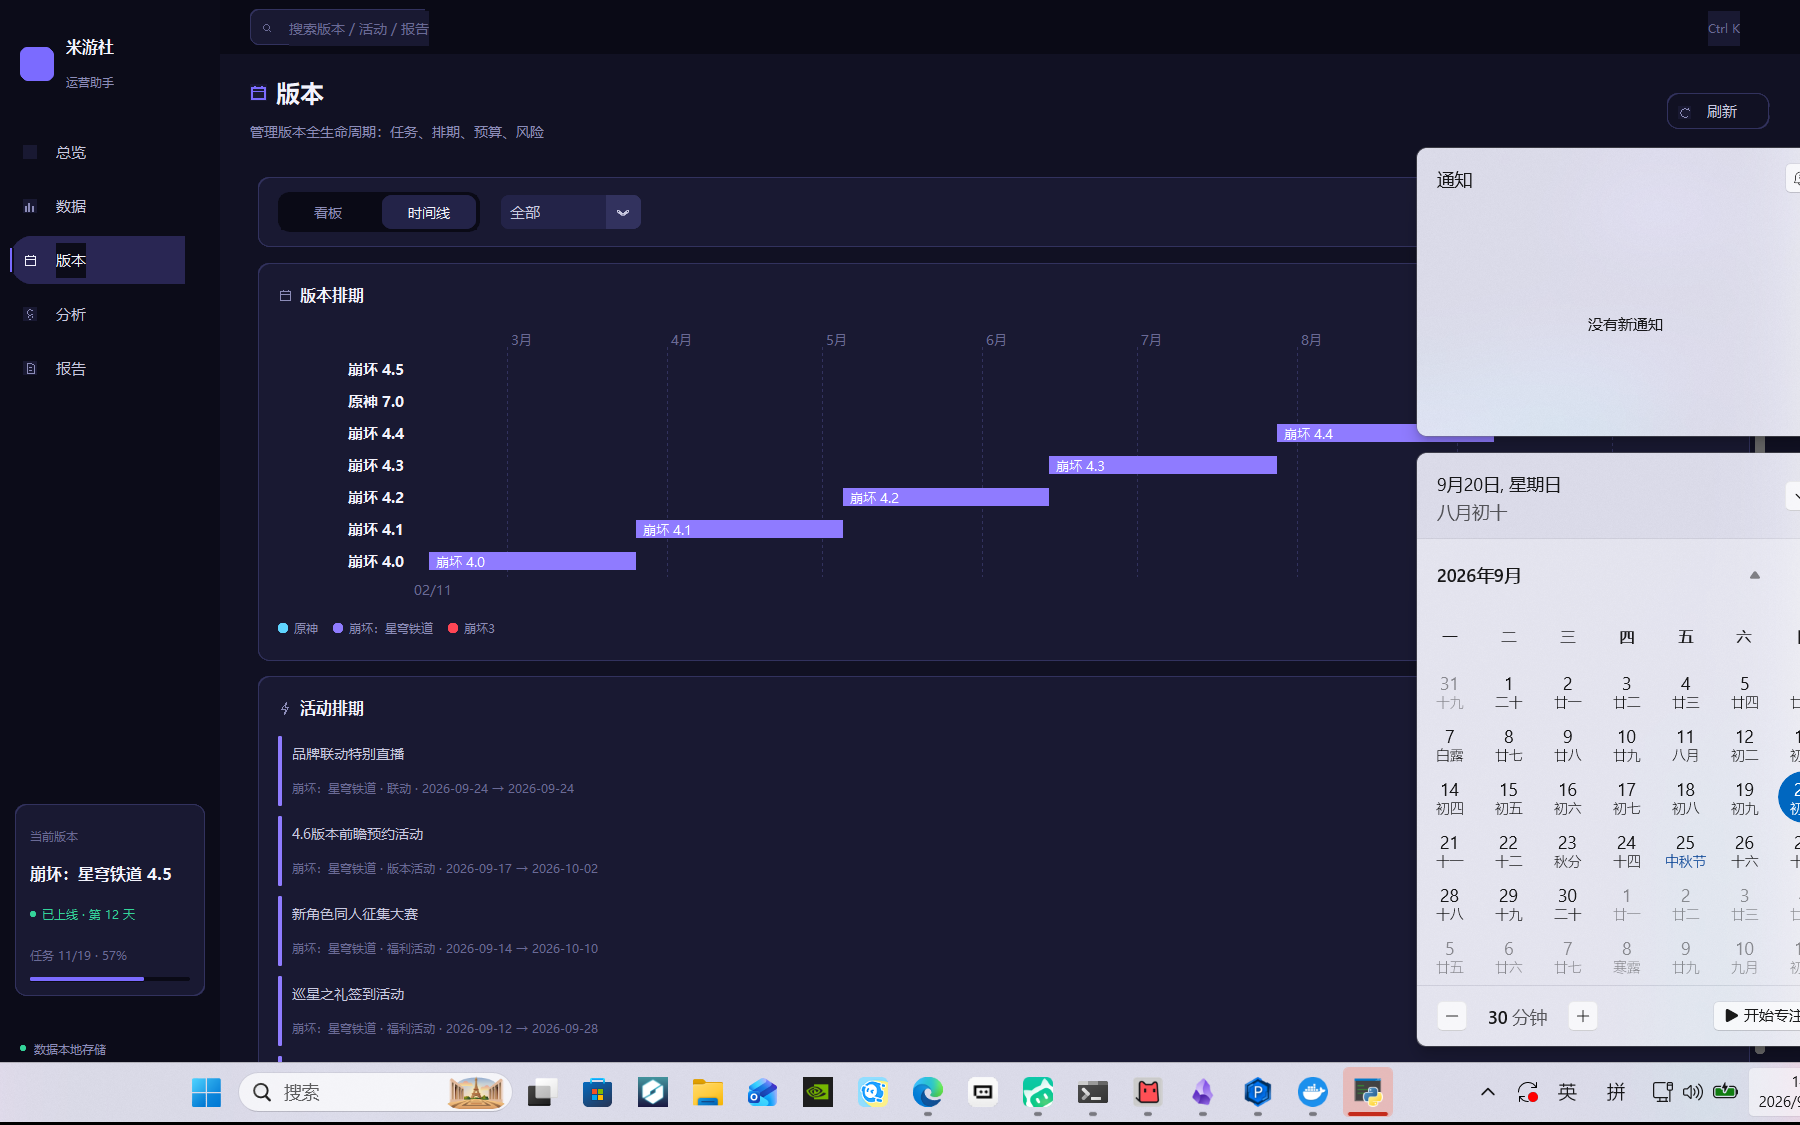
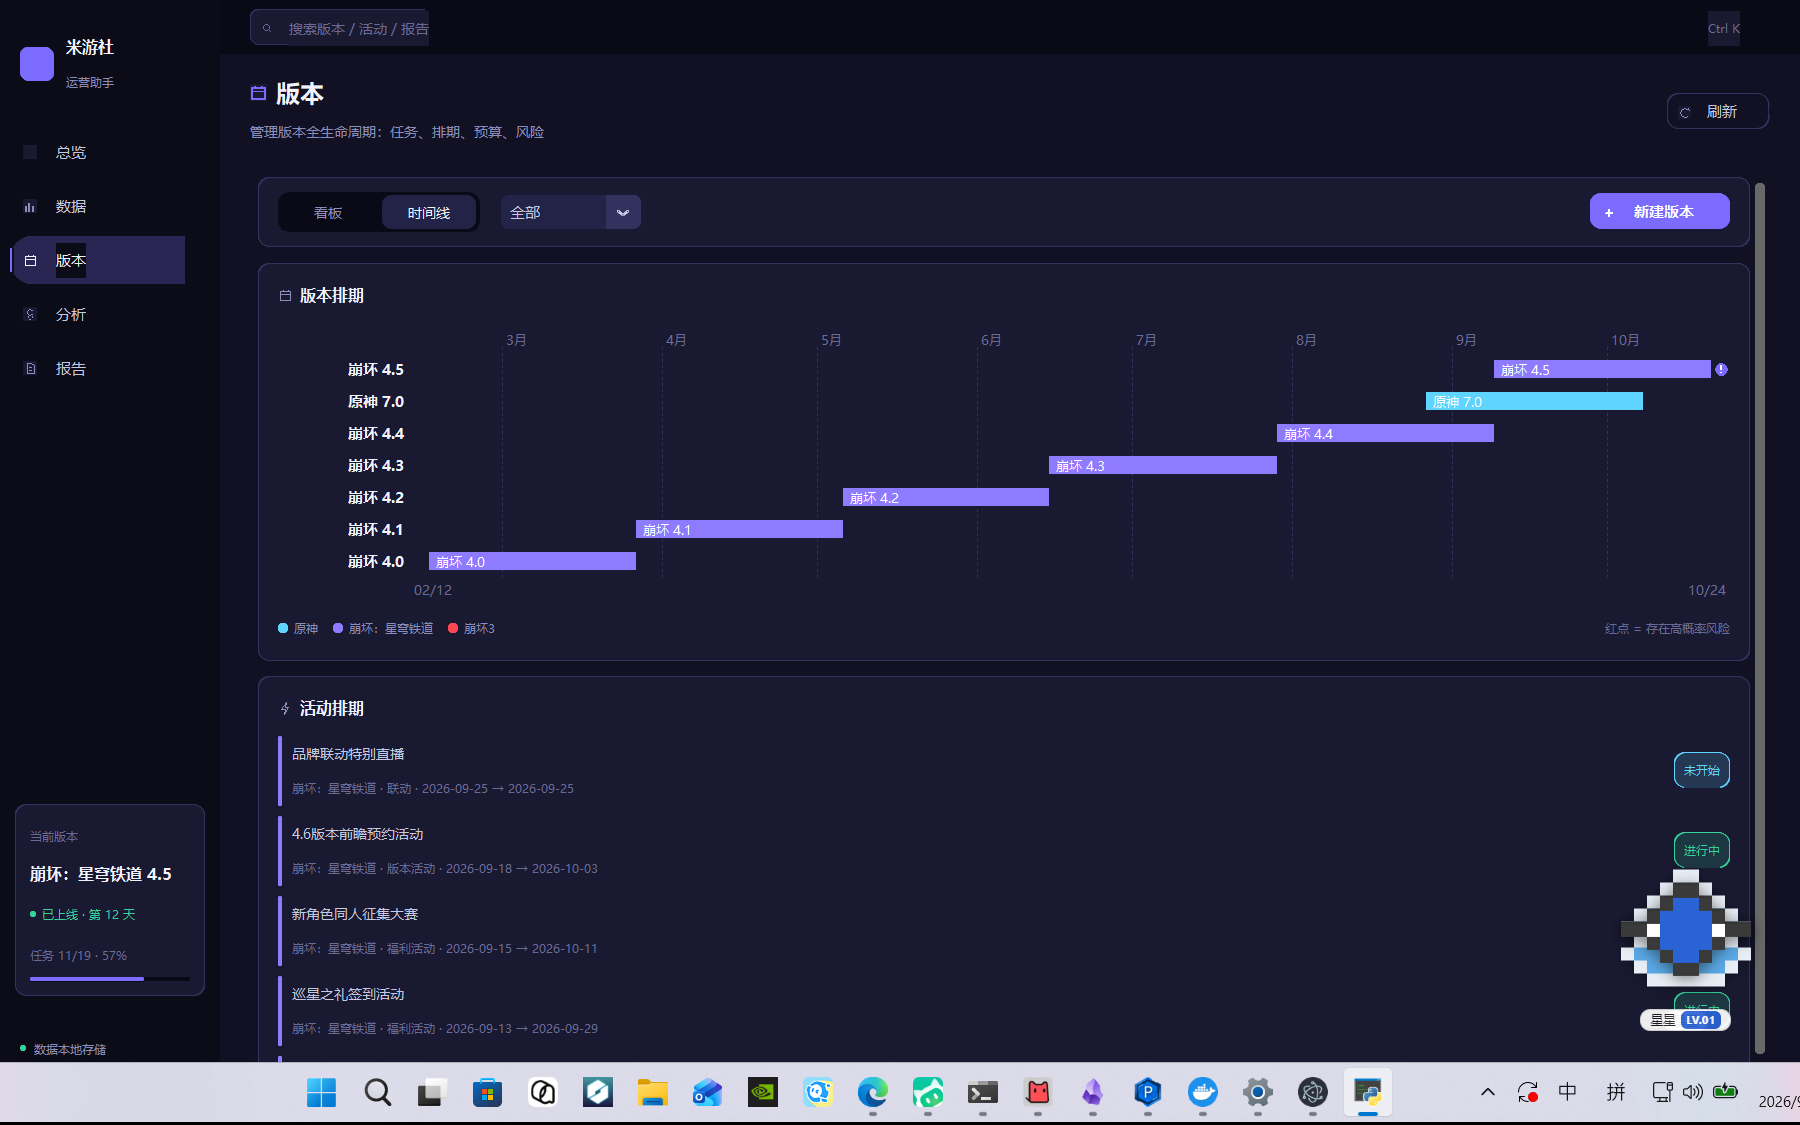
chore: 版本号升 v4.3 + 文档收口 + 重截图
- APP_VERSION 4.2 -> 4.3
- README 徽章 74 -> 81; 迭代记录新增 v4.3 章节与数字盘点(~9600 行/81 项/ruff 零告警)
- 14 张截图重截: 早报预警已显示「同环比同向确认 + 活动期复核」

Changed region(s): [[0.7778, 0.1244, 1.0, 0.9333], [0.0933, 0.9333, 0.7778, 0.9956]]

diff --git a/main.py b/main.py
@@ -36,7 +36,7 @@ from db import (init_db, save_config, load_config, add_log, recent_logs,
 from views import (OverviewMixin, DataMixin, VersionsMixin,
                    AnalysisMixin, ReportMixin)
 
-APP_VERSION = "4.2"
+APP_VERSION = "4.3"
 APP_TITLE = "米游社运营助手"
 
 ctk.set_appearance_mode("dark")
